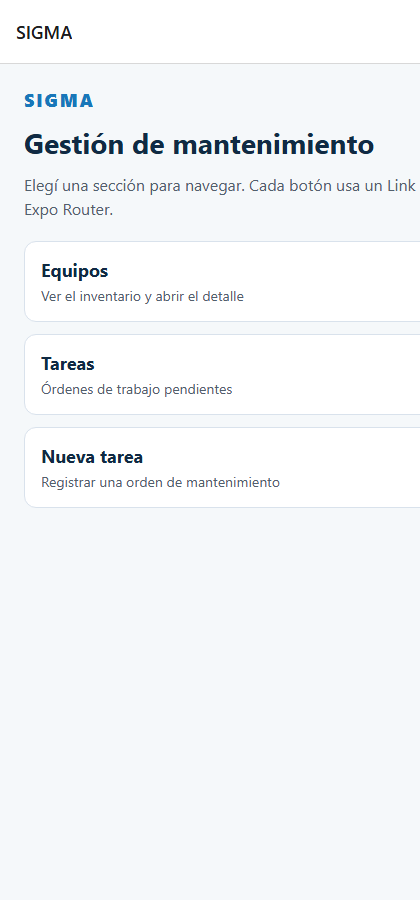
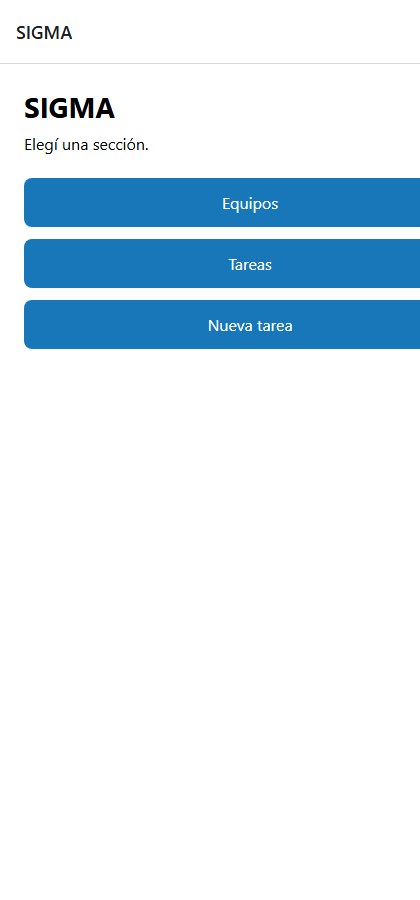
termino las pantallas

Changed region(s): [[0.031, 0.0933, 1.0, 0.4667], [0.0929, 0.4978, 0.4333, 0.56], [0.4643, 0.5289, 0.65, 0.56]]

diff --git a/app/index.tsx b/app/index.tsx
@@ -1,39 +1,42 @@
 import { Link } from "expo-router";
-import { Pressable, ScrollView, StyleSheet, Text } from "react-native";
-
-const opciones = [
-  { href: "/equipos" as const, titulo: "Equipos", detalle: "Ver el inventario y abrir el detalle" },
-  { href: "/tareas" as const, titulo: "Tareas", detalle: "Órdenes de trabajo pendientes" },
-  { href: "/nueva-tarea" as const, titulo: "Nueva tarea", detalle: "Registrar una orden de mantenimiento" },
-];
+import { Pressable, StyleSheet, Text, View } from "react-native";
 
 export default function InicioScreen() {
   return (
-    <ScrollView contentContainerStyle={styles.container}>
-      <Text style={styles.logo}>SIGMA</Text>
-      <Text style={styles.title}>Gestión de mantenimiento</Text>
-      <Text style={styles.description}>
-        Elegí una sección para navegar. Cada botón usa un Link de Expo Router.
-      </Text>
+    <View style={styles.container}>
+      <Text style={styles.titulo}>SIGMA</Text>
+      <Text style={styles.texto}>Elegí una sección.</Text>
 
-      {opciones.map((opcion) => (
-        <Link key={opcion.href} href={opcion.href} asChild>
-          <Pressable style={styles.button}>
-            <Text style={styles.buttonTitle}>{opcion.titulo}</Text>
-            <Text style={styles.buttonDetail}>{opcion.detalle}</Text>
-          </Pressable>
-        </Link>
-      ))}
-    </ScrollView>
+      <Link href="/equipos" asChild>
+        <Pressable style={styles.button}>
+          <Text style={styles.buttonText}>Equipos</Text>
+        </Pressable>
+      </Link>
+
+      <Link href="/tareas" asChild>
+        <Pressable style={styles.button}>
+          <Text style={styles.buttonText}>Tareas</Text>
+        </Pressable>
+      </Link>
+
+      <Link href="/nueva-tarea" asChild>
+        <Pressable style={styles.button}>
+          <Text style={styles.buttonText}>Nueva tarea</Text>
+        </Pressable>
+      </Link>
+    </View>
   );
 }
 
 const styles = StyleSheet.create({
-  container: { flexGrow: 1, padding: 24, backgroundColor: "#F5F8FA", gap: 12 },
-  logo: { fontSize: 18, fontWeight: "800", color: "#1877B9", letterSpacing: 2 },
-  title: { fontSize: 28, fontWeight: "700", color: "#102A43" },
-  description: { fontSize: 16, lineHeight: 24, color: "#52606D", marginBottom: 8 },
-  button: { backgroundColor: "#FFFFFF", padding: 16, borderRadius: 12, borderWidth: 1, borderColor: "#D9E2EC" },
-  buttonTitle: { color: "#102A43", fontSize: 18, fontWeight: "700" },
-  buttonDetail: { color: "#52606D", fontSize: 14, marginTop: 4 },
+  container: { flex: 1, padding: 24, backgroundColor: "#fff" },
+  titulo: { fontSize: 28, fontWeight: "bold", marginBottom: 8 },
+  texto: { fontSize: 16, marginBottom: 24 },
+  button: {
+    backgroundColor: "#1877B9",
+    padding: 14,
+    borderRadius: 8,
+    marginBottom: 12,
+  },
+  buttonText: { color: "#fff", fontSize: 16, textAlign: "center" },
 });

diff --git a/app/nueva-tarea.tsx b/app/nueva-tarea.tsx
@@ -1,63 +1,16 @@
-import { useState } from "react";
-import { Pressable, StyleSheet, Text, TextInput, View } from "react-native";
+import { StyleSheet, Text, View } from "react-native";
 
 export default function NuevaTareaScreen() {
-  const [titulo, setTitulo] = useState("");
-  const [equipo, setEquipo] = useState("");
-  const [aviso, setAviso] = useState("");
-
-  function guardar() {
-    if (titulo.trim().length === 0 || equipo.trim().length === 0) {
-      setAviso("Completá el título y el equipo.");
-      return;
-    }
-    setAviso("Tarea lista para registrar: " + titulo.trim());
-  }
-
   return (
     <View style={styles.container}>
-      <Text style={styles.title}>Nueva tarea</Text>
-      <Text style={styles.subtitle}>Registrá una orden de mantenimiento.</Text>
-
-      <Text style={styles.label}>Título</Text>
-      <TextInput
-        value={titulo}
-        onChangeText={setTitulo}
-        placeholder="Ej: Revisar bomba de agua"
-        style={styles.input}
-      />
-
-      <Text style={styles.label}>Equipo</Text>
-      <TextInput
-        value={equipo}
-        onChangeText={setEquipo}
-        placeholder="Ej: Bomba centrífuga 01"
-        style={styles.input}
-      />
-
-      <Pressable style={styles.button} onPress={guardar}>
-        <Text style={styles.buttonText}>Guardar tarea</Text>
-      </Pressable>
-
-      {aviso ? <Text style={styles.aviso}>{aviso}</Text> : null}
+      <Text style={styles.titulo}>Nueva tarea</Text>
+      <Text style={styles.texto}>Acá se va a registrar una orden de mantenimiento.</Text>
     </View>
   );
 }
 
 const styles = StyleSheet.create({
-  container: { flex: 1, padding: 20, backgroundColor: "#F5F8FA" },
-  title: { fontSize: 26, fontWeight: "700", color: "#102A43" },
-  subtitle: { color: "#52606D", fontSize: 16, marginTop: 6, marginBottom: 16 },
-  label: { color: "#52606D", fontSize: 14, fontWeight: "700", marginTop: 12, marginBottom: 6 },
-  input: {
-    backgroundColor: "#FFFFFF",
-    borderWidth: 1,
-    borderColor: "#D9E2EC",
-    borderRadius: 10,
-    padding: 12,
-    fontSize: 16,
-  },
-  button: { backgroundColor: "#1877B9", padding: 16, borderRadius: 10, alignItems: "center", marginTop: 24 },
-  buttonText: { color: "#FFFFFF", fontWeight: "700", fontSize: 16 },
-  aviso: { marginTop: 16, color: "#102A43", fontSize: 15 },
+  container: { flex: 1, padding: 24, backgroundColor: "#fff" },
+  titulo: { fontSize: 22, fontWeight: "bold", marginBottom: 12 },
+  texto: { fontSize: 16 },
 });

diff --git a/app/equipos.tsx b/app/equipos.tsx
@@ -1,32 +1,43 @@
-import { Link } from "expo-router";
+import { router } from "expo-router";
 import { Pressable, StyleSheet, Text, View } from "react-native";
-import { equipos } from "../data/equipos";
+
+const equipos = [
+  { id: "eq-1", nombre: "Equipo 1" },
+  { id: "eq-2", nombre: "Equipo 2" },
+  { id: "eq-3", nombre: "Equipo 3" },
+];
 
 export default function EquiposScreen() {
   return (
     <View style={styles.container}>
-      <Text style={styles.title}>Equipos</Text>
-      <Text style={styles.subtitle}>Seleccioná un equipo para abrir su detalle.</Text>
+      <Text style={styles.titulo}>Listado de equipos</Text>
 
       {equipos.map((equipo) => (
-        <Link key={equipo.id} href={{ pathname: "/equipos/[id]", params: { id: equipo.id } }} asChild>
-          <Pressable style={styles.card}>
-            <Text style={styles.id}>{equipo.id}</Text>
-            <Text style={styles.nombre}>{equipo.nombre}</Text>
-            <Text style={styles.meta}>{equipo.ubicacion} · {equipo.estado}</Text>
-          </Pressable>
-        </Link>
+        <Pressable
+          key={equipo.id}
+          style={styles.button}
+          onPress={() =>
+            router.push({
+              pathname: "/equipos/[id]",
+              params: { id: equipo.id },
+            })
+          }
+        >
+          <Text style={styles.buttonText}>{equipo.nombre}</Text>
+        </Pressable>
       ))}
     </View>
   );
 }
 
 const styles = StyleSheet.create({
-  container: { flex: 1, padding: 20, backgroundColor: "#F5F8FA", gap: 12 },
-  title: { fontSize: 26, fontWeight: "700", color: "#102A43" },
-  subtitle: { color: "#52606D", fontSize: 16, marginBottom: 4 },
-  card: { backgroundColor: "#FFFFFF", padding: 16, borderRadius: 12, borderWidth: 1, borderColor: "#D9E2EC" },
-  id: { color: "#1877B9", fontWeight: "800", fontSize: 14 },
-  nombre: { color: "#102A43", fontSize: 18, fontWeight: "700", marginTop: 4 },
-  meta: { color: "#52606D", fontSize: 14, marginTop: 4 },
+  container: { flex: 1, padding: 24, backgroundColor: "#fff" },
+  titulo: { fontSize: 22, fontWeight: "bold", marginBottom: 16 },
+  button: {
+    backgroundColor: "#1877B9",
+    padding: 14,
+    borderRadius: 8,
+    marginBottom: 12,
+  },
+  buttonText: { color: "#fff", fontSize: 16, textAlign: "center" },
 });

diff --git a/app/equipos/[id].tsx b/app/equipos/[id].tsx
@@ -1,41 +1,35 @@
 import { useLocalSearchParams } from "expo-router";
 import { StyleSheet, Text, View } from "react-native";
-import { getEquipoById } from "../../data/equipos";
 
-export default function DetalleEquipoScreen() {
+const equipos = [
+  { id: "eq-1", nombre: "Equipo 1", descripcion: "Bomba de la sala de máquinas." },
+  { id: "eq-2", nombre: "Equipo 2", descripcion: "Compresor del taller." },
+  { id: "eq-3", nombre: "Equipo 3", descripcion: "Tablero eléctrico norte." },
+];
+
+export default function DetalleEquipo() {
   const { id } = useLocalSearchParams<{ id: string }>();
-  const equipo = getEquipoById(id);
+  const equipo = equipos.find((item) => item.id === id);
 
   if (!equipo) {
     return (
       <View style={styles.container}>
-        <Text style={styles.title}>Equipo no encontrado</Text>
-        <Text style={styles.value}>No hay un equipo con el id {id}.</Text>
+        <Text style={styles.titulo}>Equipo no encontrado</Text>
       </View>
     );
   }
 
   return (
     <View style={styles.container}>
-      <Text style={styles.id}>{equipo.id}</Text>
-      <Text style={styles.title}>{equipo.nombre}</Text>
-
-      <Text style={styles.label}>Ubicación</Text>
-      <Text style={styles.value}>{equipo.ubicacion}</Text>
-
-      <Text style={styles.label}>Estado</Text>
-      <Text style={styles.value}>{equipo.estado}</Text>
-
-      <Text style={styles.label}>Descripción</Text>
-      <Text style={styles.value}>{equipo.descripcion}</Text>
+      <Text style={styles.titulo}>Equipo seleccionado: {id}</Text>
+      <Text style={styles.texto}>{equipo.nombre}</Text>
+      <Text style={styles.texto}>{equipo.descripcion}</Text>
     </View>
   );
 }
 
 const styles = StyleSheet.create({
-  container: { flex: 1, padding: 24, backgroundColor: "#FFFFFF" },
-  id: { color: "#1877B9", fontWeight: "800", fontSize: 16 },
-  title: { color: "#102A43", fontSize: 28, fontWeight: "700", marginTop: 6, marginBottom: 12 },
-  label: { color: "#52606D", fontSize: 14, fontWeight: "700", marginTop: 16 },
-  value: { color: "#102A43", fontSize: 17, marginTop: 4, lineHeight: 24 },
+  container: { flex: 1, padding: 24, backgroundColor: "#fff" },
+  titulo: { fontSize: 22, fontWeight: "bold", marginBottom: 12 },
+  texto: { fontSize: 16, marginBottom: 8 },
 });

diff --git a/app/tareas.tsx b/app/tareas.tsx
@@ -1,29 +1,17 @@
 import { StyleSheet, Text, View } from "react-native";
-import { tareas } from "../data/tareas";
 
 export default function TareasScreen() {
   return (
     <View style={styles.container}>
-      <Text style={styles.title}>Tareas</Text>
-      <Text style={styles.subtitle}>Órdenes de trabajo pendientes.</Text>
-
-      {tareas.map((tarea) => (
-        <View key={tarea.id} style={styles.card}>
-          <Text style={styles.id}>{tarea.id}</Text>
-          <Text style={styles.nombre}>{tarea.titulo}</Text>
-          <Text style={styles.meta}>{tarea.equipo} · Prioridad {tarea.prioridad}</Text>
-        </View>
-      ))}
+      <Text style={styles.titulo}>Tareas</Text>
+      <Text style={styles.texto}>OT-104 - Revisar bomba de agua</Text>
+      <Text style={styles.texto}>OT-105 - Cambiar filtro de aire</Text>
     </View>
   );
 }
 
 const styles = StyleSheet.create({
-  container: { flex: 1, padding: 20, backgroundColor: "#F5F8FA", gap: 12 },
-  title: { fontSize: 26, fontWeight: "700", color: "#102A43" },
-  subtitle: { color: "#52606D", fontSize: 16, marginBottom: 4 },
-  card: { backgroundColor: "#FFFFFF", padding: 16, borderRadius: 12, borderWidth: 1, borderColor: "#D9E2EC" },
-  id: { color: "#1877B9", fontWeight: "800", fontSize: 14 },
-  nombre: { color: "#102A43", fontSize: 18, fontWeight: "700", marginTop: 4 },
-  meta: { color: "#52606D", fontSize: 14, marginTop: 4 },
+  container: { flex: 1, padding: 24, backgroundColor: "#fff" },
+  titulo: { fontSize: 22, fontWeight: "bold", marginBottom: 12 },
+  texto: { fontSize: 16, marginBottom: 8 },
 });

diff --git a/README.md b/README.md
@@ -1,38 +1,25 @@
-# SIGMA — Navegación con Expo Router
+# SIGMA
 
-Aplicación de práctica para Desarrollo de Dispositivos Móviles. SIGMA (Sistema Inteligente de Gestión de Mantenimiento) muestra cómo navegar entre pantallas con Expo Router.
+App de práctica de Desarrollo de Dispositivos Móviles. Usa Expo Router para navegar entre las pantallas de SIGMA.
 
-## Qué hace
+## Pantallas
 
-La pantalla de inicio tiene un menú con tres opciones. Cada botón es un `Link` de Expo Router:
-
-- **Equipos** abre el listado. Cada equipo navega a una ruta dinámica `equipos/[id]`.
-- **Tareas** abre las órdenes de trabajo pendientes.
-- **Nueva tarea** abre el formulario para registrar una orden.
-
-Al tocar un equipo, Expo Router abre `app/equipos/[id].tsx` y la pantalla lee el `id` con `useLocalSearchParams`.
+- `app/index.tsx`: inicio, con un Link a Equipos, Tareas y Nueva tarea.
+- `app/equipos.tsx`: listado. Al tocar un equipo se usa `router.push` hacia el detalle.
+- `app/equipos/[id].tsx`: detalle. Lee el id de la ruta con `useLocalSearchParams`.
+- `app/tareas.tsx`: tareas pendientes.
+- `app/nueva-tarea.tsx`: pantalla para una tarea nueva.
+- `app/_layout.tsx`: el Stack, con el título de cada pantalla.
 
 ## Cómo ejecutarlo
-
-Necesitás Node.js LTS.
 
 ```bash
 npm install
 npx expo start
 ```
 
-Después podés abrir el proyecto en Expo Go (escaneando el QR), en un emulador, o en el navegador con `w`.
-
-## Rutas
-
-| Archivo | Ruta | Pantalla |
-| --- | --- | --- |
-| `app/index.tsx` | `/` | Inicio |
-| `app/equipos.tsx` | `/equipos` | Listado de equipos |
-| `app/equipos/[id].tsx` | `/equipos/EQ-01` | Detalle del equipo |
-| `app/tareas.tsx` | `/tareas` | Tareas |
-| `app/nueva-tarea.tsx` | `/nueva-tarea` | Nueva tarea |
+Después se puede abrir en Expo Go o en el navegador.
 
 ## Capturas
 
-Las capturas de la navegación están en la carpeta `capturas/`.
+Están en la carpeta `capturas/`.
